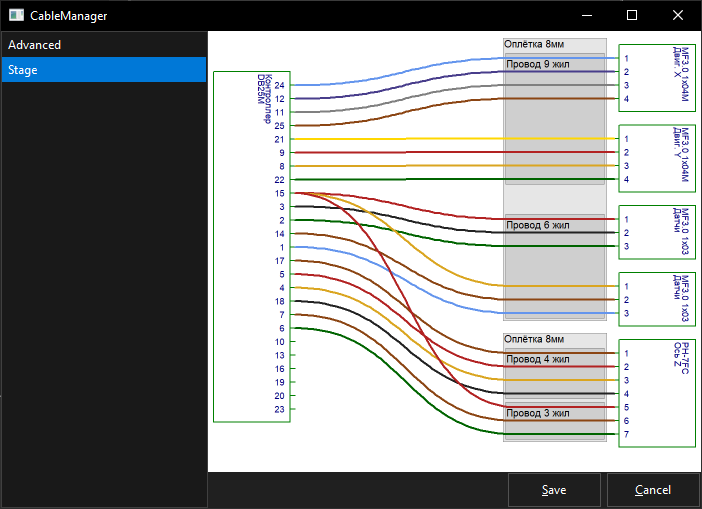
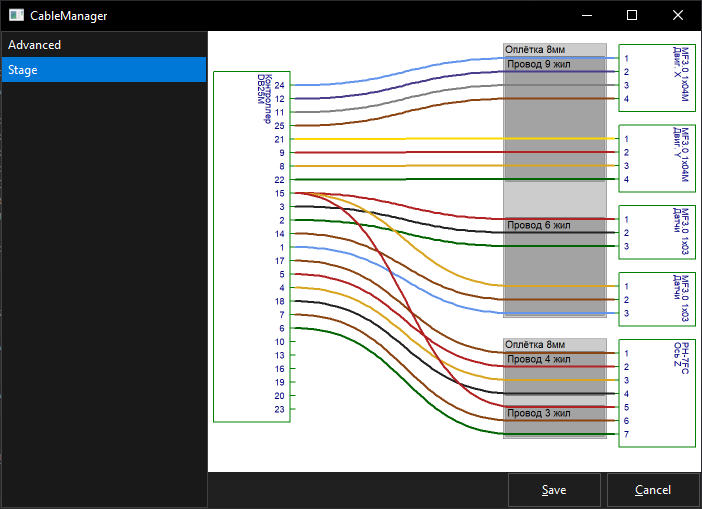
Fixed cable names

Changed region(s): [[0.7179, 0.0589, 0.8675, 0.8841]]

diff --git a/Cable.hpp b/Cable.hpp
@@ -15,6 +15,8 @@ private:
 	Color color;
 	
 public:
+	static int pinHeight;
+	
 	Cable(String name, Color color) : name(name), color(color) {}
 	
 	void Add(Cable *cable) {cables.Add(cable);}
@@ -79,7 +81,7 @@ public:
 			}
 		}
 		if (!coverRect.IsEmpty()) {
-			coverRect.top -= 25;
+			coverRect.top -= max(20, pinHeight / 2);
 			coverRect.Inflate(5, 5);
 		}
 		if (wires.GetCount()) {
@@ -94,7 +96,7 @@ public:
 			}
 			int right = iSize.cx - iSize.cx / 6 - 30;
 			int left = right - iSize.cx / 5;
-			Rect wiresRect = {left, top - 10, right, bottom + 10};
+			Rect wiresRect = {left, top - pinHeight / 6, right, bottom + pinHeight / 6};
 			if (coverRect.IsEmpty()) {
 				coverRect = wiresRect;
 			} else {
@@ -116,7 +118,8 @@ public:
 			Point(coverRect.right, coverRect.bottom),
 			Point(coverRect.left, coverRect.bottom),
 		}, color, 1, DarkColor(color));
-		imgDraw.DrawText(coverRect.left + 2, coverRect.top +  (cables.GetCount() ? 0 : 10), name, Arial(20), Black);
+		int fontSize = max(20, pinHeight * 2 / 5);
+		imgDraw.DrawText(coverRect.left + 4, coverRect.top +  (cables.GetCount() ? 0 : (int)round((pinHeight - fontSize * 0.95) / 2.)), name, Arial(fontSize), Black);
 		for (Cable* c : cables) {
 			c->DrawCovers(imgDraw, objImg, iSize);
 		}
@@ -165,5 +168,7 @@ public:
 		return color;
 	}
 };
+
+int Cable::pinHeight = 10;
 
 #endif

diff --git a/Viewer.hpp b/Viewer.hpp
@@ -11,6 +11,7 @@ private:
 	ImageDraw *dImg = NULL;
 	Image objImg;
 	Size dSize;
+	MainCable *cable = NULL;
 	
 public:
 	Viewer() {
@@ -33,17 +34,26 @@ public:
 		//w.DrawRect(sz, White);
 		if (dImg) w.DrawImage(GetSize(), *dImg);
 		//if (objImg) w.DrawImage(GetSize(), objImg);
+		
+		double sX = (double)dSize.cx / (double)sz.cx;
+		double sY = (double)dSize.cy / (double)sz.cy;
+		if (sX < 1.6 || sX > 2.4 || sY < 1.6 || sY > 2.4) {
+			Show(cable);
+		}
 	}
 	
 	void Show(MainCable *cable) {
 		if (dImg) delete dImg;
-		Size sz = GetSize();
-		dSize = {sz.cx*2, sz.cy*2};
-		dImg = new ImageDraw(dSize);
-		dImg->DrawRect(dSize, White);
-		ImageDraw objID(dSize);
-		cable->Draw(*dImg, objID, dSize);
-		objImg = objID;
+		this->cable = cable;
+		if (cable != NULL) {
+			Size sz = GetSize();
+			dSize = {sz.cx*2, sz.cy*2};
+			dImg = new ImageDraw(dSize);
+			dImg->DrawRect(dSize, White);
+			ImageDraw objID(dSize);
+			cable->Draw(*dImg, objID, dSize);
+			objImg = objID;
+		}
 		Refresh();
 	}
 	

diff --git a/Parser.hpp b/Parser.hpp
@@ -126,7 +126,7 @@ private:
 		while (result && !(line = getLine(f)).IsEqual(CMD_EOF) && _level >= level) {
 			if (line.StartsWith(CMD_COVER) || line.StartsWith(CMD_WISP)) {
 				int startName = line.StartsWith(CMD_COVER) ? 6 : 5;
-				Color color = CableNode::DarkColor(cable.GetColor(), 0.9);
+				Color color = CableNode::DarkColor(cable.GetColor(), 0.8);
 				if (line[startName] == '#') {
 					int hexColor;
 					str = ScanInt<char, byte, uint32, int, 16>(hexColor, line.Begin() + startName + 1, overflow);
@@ -169,7 +169,7 @@ private:
 					};
 				}
 				nextLine();
-				result = parseCmdConnections(f, cable, mc.GetConnector(idLeft), mc.GetConnector(idRight), _level+1);
+				result = parseCmdConnections(f, cable, mc.GetConnector(idLeft), mc.GetConnector(idRight), _level + 1);
 			} else {
 				RLOG("Unknown command: " << line);
 				nextLine();

diff --git a/MainCable.hpp b/MainCable.hpp
@@ -62,6 +62,7 @@ public:
 		}
 		int pinHeight = size.cy / max(leftPinCount, rightPinCount);
 		Connector::textFont.Height(pinHeight * 2 / 3);
+		Cable::pinHeight = pinHeight;
 		Wire::pen = pinHeight / 6;
 		if (leftPinCount > rightPinCount) {
 			topLeft  = pinHeight;
